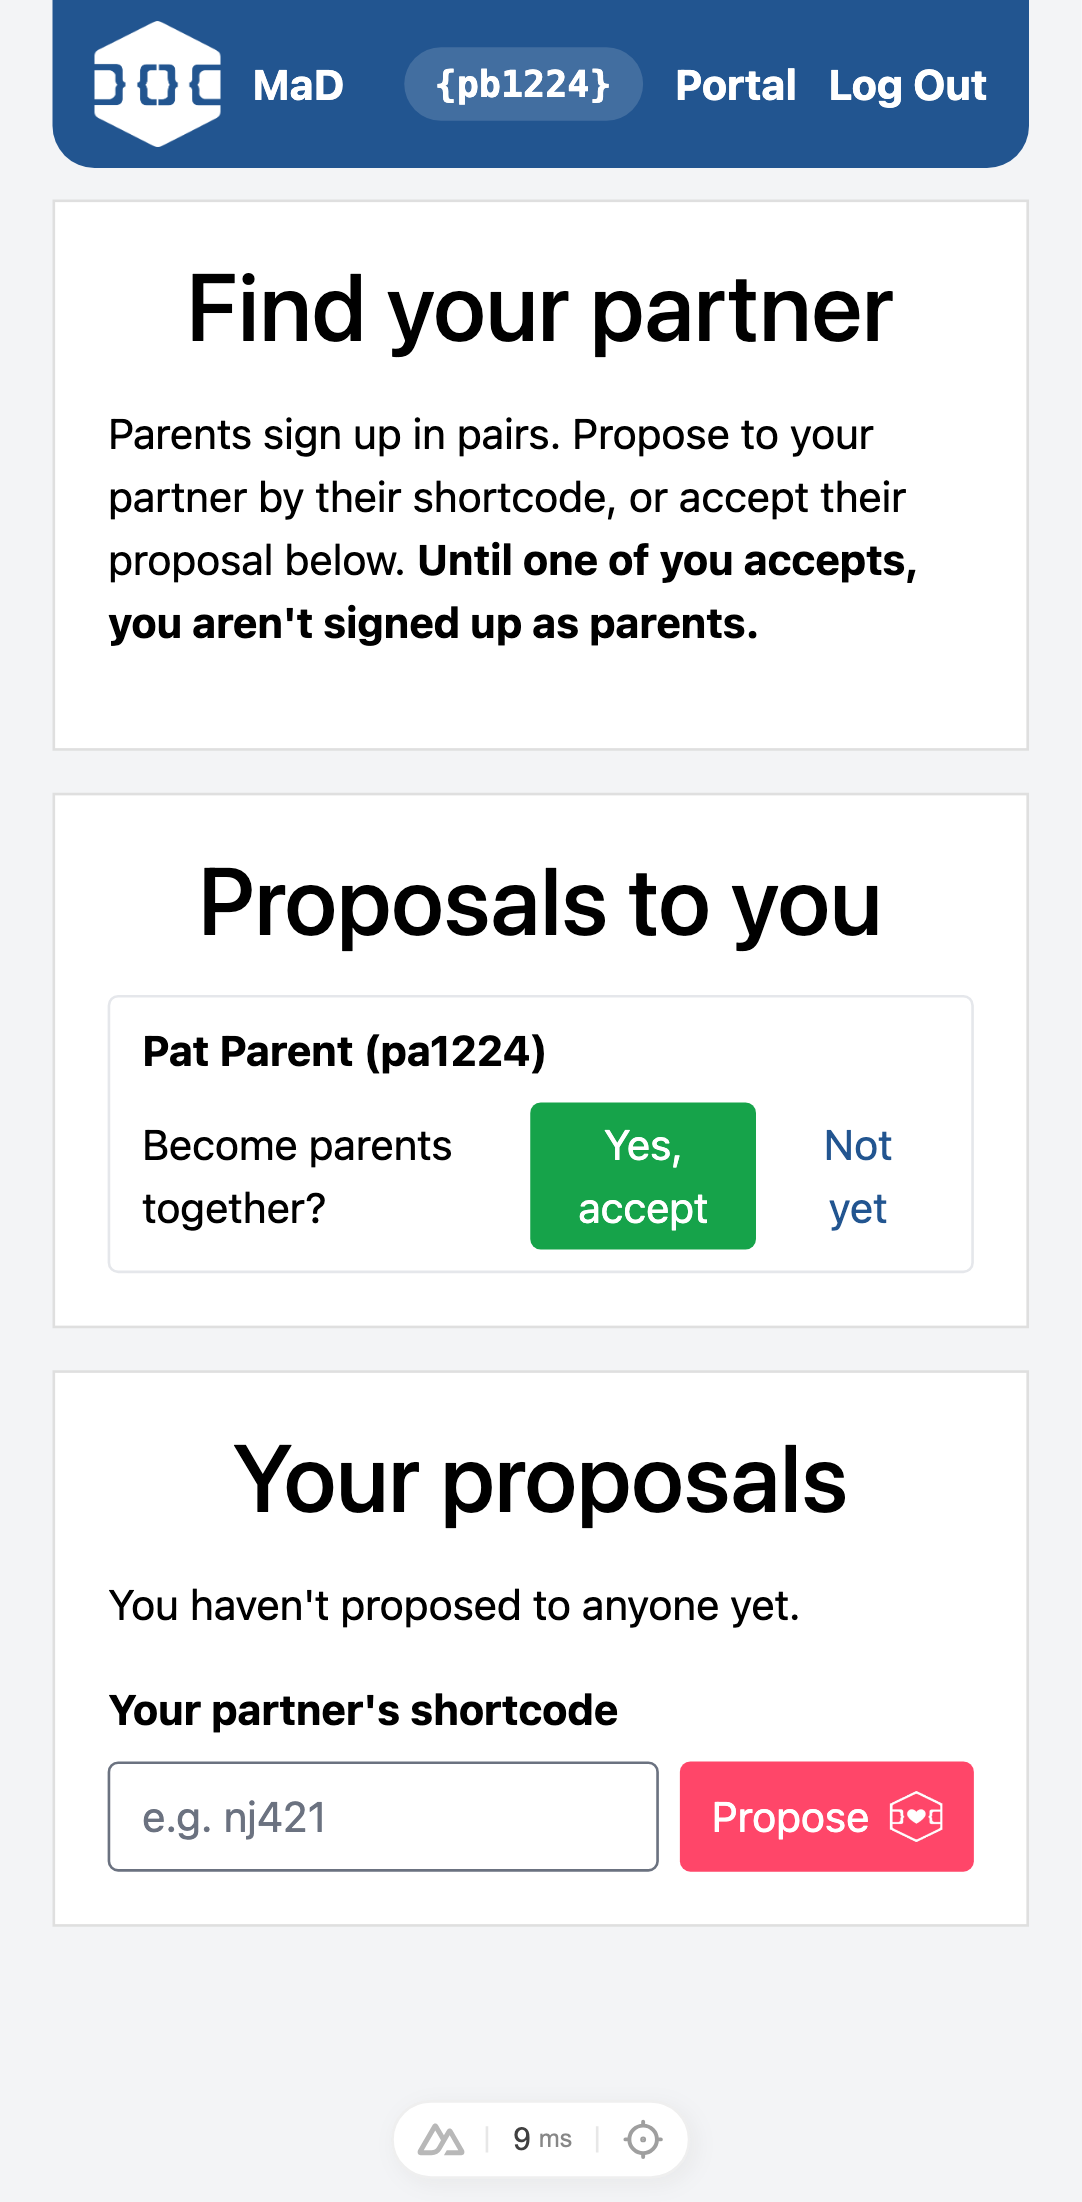
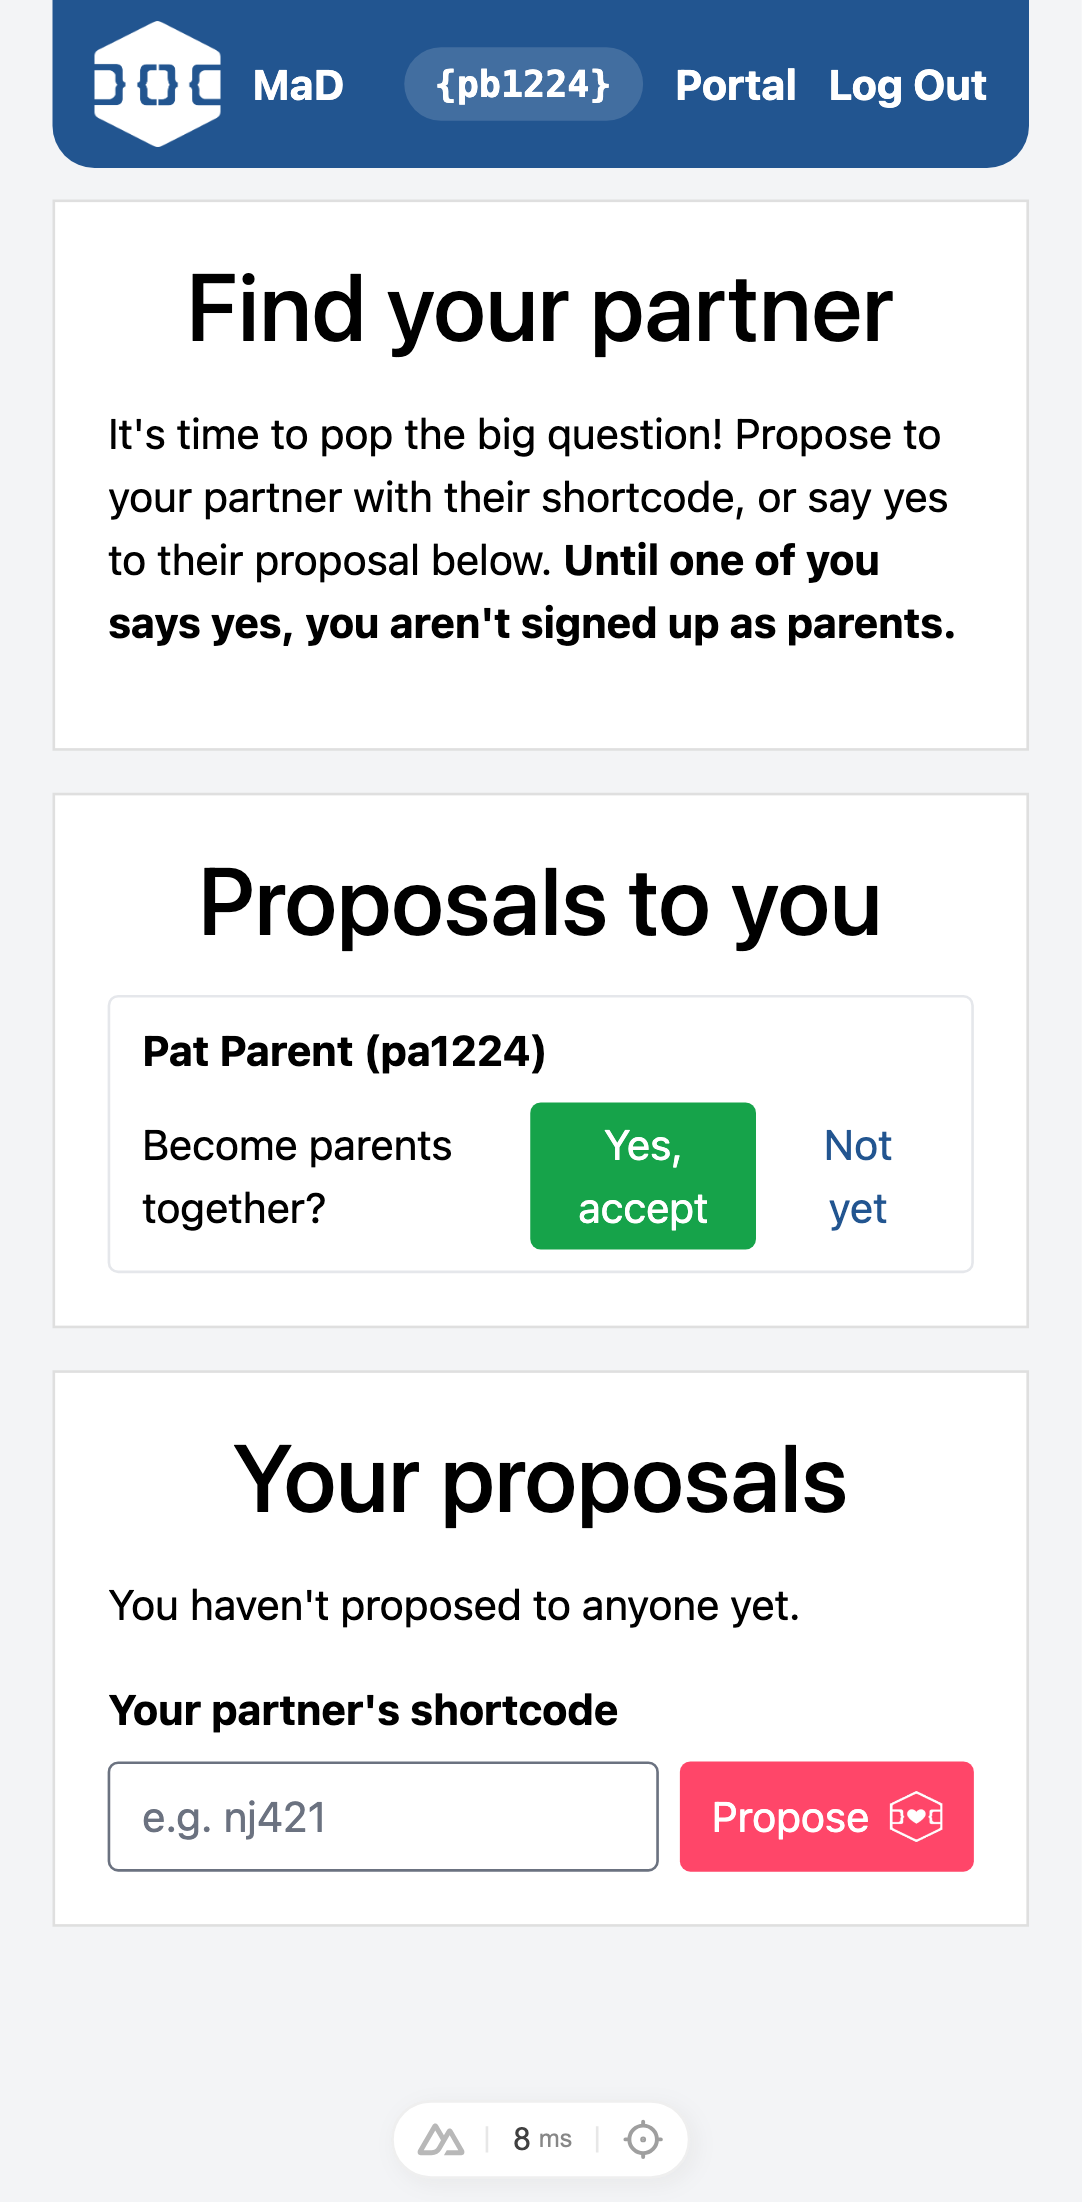
feat: invite parents to pop the big question on the proposals page

Changed region(s): [[0.0915, 0.1853, 0.8845, 0.3088]]

diff --git a/app/pages/proposals.vue b/app/pages/proposals.vue
@@ -134,10 +134,10 @@ const nameOf = (shortcode: string, name: string | null) =>
       <Card>
         <CardTitle>Find your partner</CardTitle>
         <CardText class="mt-4">
-          Parents sign up in pairs. Propose to your partner by their shortcode,
-          or accept their proposal below.
+          It's time to pop the big question! Propose to your partner with their
+          shortcode, or say yes to their proposal below.
           <strong>
-            Until one of you accepts, you aren't signed up as parents.
+            Until one of you says yes, you aren't signed up as parents.
           </strong>
         </CardText>
         <CardText v-if="!currentUser!.completedSurvey">
